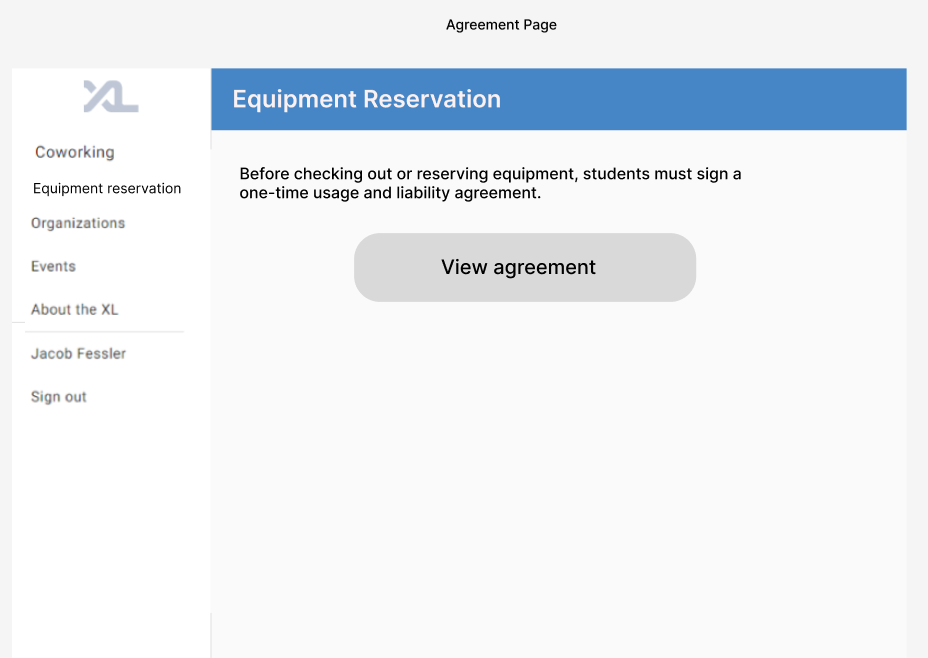
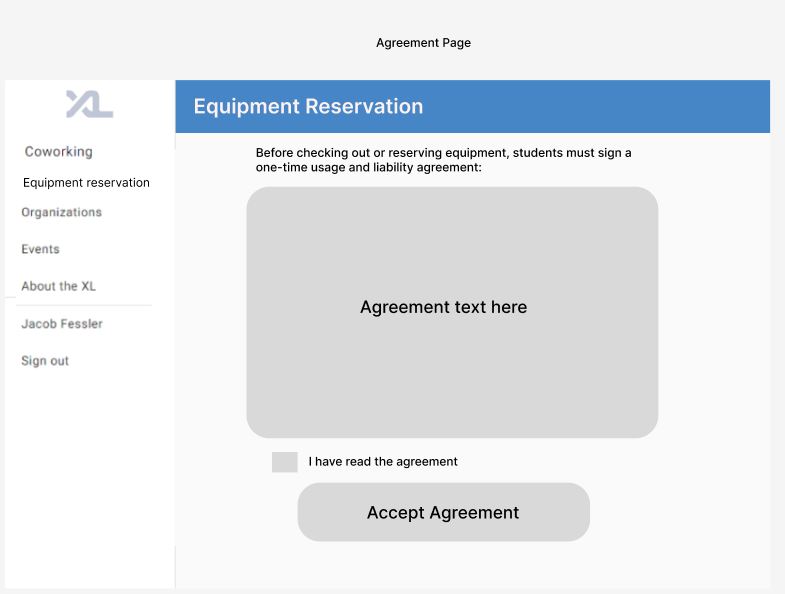
Change user_svc to user_service, update agreement wireframe

diff --git a/backend/api/equipment.py b/backend/api/equipment.py
@@ -29,7 +29,7 @@ def list_all_equipments(
 @api.put("/update-user-agreement-status", tags=["Equipment Reservation System"])
 def update_user_agreement_status(
     pid_onyen: tuple[int, str] = Depends(authenticated_pid),
-    user_svc: UserService = Depends()):
+    user_service: UserService = Depends()):
     """
     Updates a User's agreement_status field to be true
 
@@ -37,14 +37,14 @@ def update_user_agreement_status(
         UserDetails - the updated UserDetails object
     """
     pid, _ = pid_onyen
-    user = user_svc.get(pid)
+    user = user_service.get(pid)
     if user is None:
         raise Exception("User not found!")
 
     user.agreement_status = True
-    user = user_svc.update(user, user)
+    user = user_service.update(user, user)
 
-    user_details = user_svc.get(user.pid)
+    user_details = user_service.get(user.pid)
     if user_details:
         return user_details
     else:
